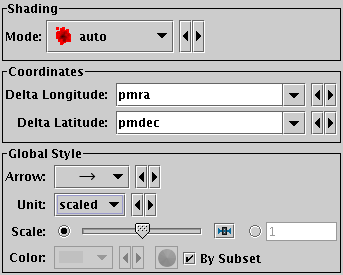
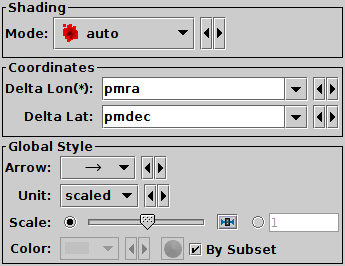
topcat: adjust SkyVector coord labels
Replace "Delta Longitude" with "Delta Lon(*)" to make it a bit more
obvious that cos(lat) premultiplication (a la Gaia pmra) is required.

Changed region(s): [[0.0, 0.0, 0.9913, 0.9925], [0.0292, 0.9023, 0.1749, 0.9624]]

diff --git a/ttools/src/main/uk/ac/starlink/ttools/plot2/layer/SkyVectorCoordSet.java b/ttools/src/main/uk/ac/starlink/ttools/plot2/layer/SkyVectorCoordSet.java
@@ -21,6 +21,7 @@ public class SkyVectorCoordSet implements MultiPointCoordSet {
     private final FloatingCoord dlonCoord_;
     private final FloatingCoord dlatCoord_;
     private final boolean preMultCosLat_;
+    private static final String DELTA = "Delta";
 
     /**
      * Constructor.
@@ -31,7 +32,9 @@ public class SkyVectorCoordSet implements MultiPointCoordSet {
     public SkyVectorCoordSet( boolean preMultCosLat ) {
         preMultCosLat_ = preMultCosLat;
         dlonCoord_ = FloatingCoord.createCoord(
-            new InputMeta( "dlon", "Delta Longitude" )
+            new InputMeta( "dlon",
+                           ( preMultCosLat ? DELTA + " Lon(*)"
+                                           : DELTA + " Lon" ) )
            .setShortDescription( "Change in longitude coordinate "
                                + ( preMultCosLat ? "" : "NOT " )
                                + "premultiplied by cos(lat)" )
@@ -46,7 +49,7 @@ public class SkyVectorCoordSet implements MultiPointCoordSet {
             } )
         , true );
         dlatCoord_ = FloatingCoord.createCoord(
-            new InputMeta( "dlat", "Delta Latitude" )
+            new InputMeta( "dlat", DELTA + " Lat" )
            .setShortDescription( "Change in latitude coordinate" )
            .setXmlDescription( new String[] {
                 "<p>Change in the latitude coordinate represented by",
